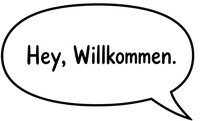
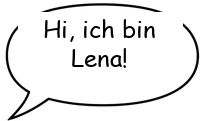
chatbot: Lena-Intro + Bubble rechts-oberhalb + neue Bubble-PNGs
- Bubble-PNGs neu gebaut: Tail nach unten-links gespiegelt (für Position
  rechts-oberhalb von Lena), Text 'Hi, ich bin Lena!' + 'Frag mich zu k-AIzen'
- CSS: left:55% statt right:55%, transform-origin: bottom left (mobile auch)
- Intro-Text im Chat: 'Hallo, ich bin Lena, die KI-Chat-Assistentin'
- Cache-Buster: 20260526-charcoal → 20260527-lena (chatbot.js + Bubble-PNGs)

Hinweis: Lena ist auch Pitch-Charakter (/pitch/lena, Restaurant-Inhaberin).
Pitch-Lena = Kunden-Persona. Chatbot-Lena = AI-Assistentin. Bewusste
Doppelnutzung der Brand-Identity.

diff --git a/public/widgets/chatbot.js b/public/widgets/chatbot.js
@@ -75,19 +75,19 @@
         position: relative;
       }
 
-      /* Sprech-Blasen — links überhalb vom Mönch.
-         Tail unten-rechts der Bubble zeigt nach unten-rechts auf den Mönch. */
+      /* Sprech-Blasen — rechts oberhalb von Lena.
+         Tail unten-links der Bubble zeigt nach unten-links auf Lena's Kopf. */
       .kbot-bubble {
         position: absolute;
         bottom: 100%;      /* bubble komplett oberhalb root */
         margin-bottom: -10px; /* leichter overlap nach unten */
-        right: 55%;        /* tail-Anchor links der Mönch-Mitte → bubble extends nach links */
+        left: 55%;         /* tail-Anchor rechts der Lena-Mitte → bubble extends nach rechts */
         width: 160px;
         height: auto;
         pointer-events: none;
         opacity: 0;
         transform: translateY(8px) scale(0.92);
-        transform-origin: bottom right;
+        transform-origin: bottom left;
         transition:
           opacity 380ms cubic-bezier(0.22, 1, 0.36, 1),
           transform 380ms cubic-bezier(0.22, 1, 0.36, 1);
@@ -323,11 +323,12 @@
           height: min(58vh, 380px);
         }
 
-        /* Bubble kleiner + Position auf mobile */
+        /* Bubble kleiner + Position auf mobile (analog Desktop: rechts-oberhalb) */
         .kbot-bubble {
           width: 130px !important;
           bottom: 92% !important;
-          right: 50% !important;
+          left: 50% !important;
+          right: auto !important;
         }
       }
     `;
@@ -339,8 +340,8 @@
     root.id = 'kaizen-bot-root';
     root.innerHTML = `
       <div class="kbot-handle" id="kbot-handle" role="button" tabindex="0" aria-label="Chat öffnen">
-        <img class="kbot-bubble kbot-bubble-welcome" src="/widgets/bubble-welcome.png" alt="" />
-        <img class="kbot-bubble kbot-bubble-help" src="/widgets/bubble-help.png" alt="" />
+        <img class="kbot-bubble kbot-bubble-welcome" src="/widgets/bubble-welcome.png?v=20260527-lena" alt="" />
+        <img class="kbot-bubble kbot-bubble-help" src="/widgets/bubble-help.png?v=20260527-lena" alt="" />
         <span class="kbot-monk-wrap">
           <img class="kbot-monk-top" src="/widgets/monk-top.png" alt="" />
         </span>
@@ -392,7 +393,7 @@
     sendBtn.onclick = () => send(input.value);
 
     appendAssistant(
-      'Ich bin der k-AIzen-Bot. Frag mich was zu k-AIzen — Pricing, Module, Methodik, Vertrauen — oder lass uns ein Mini-Audit durchgehen.',
+      'Hallo, ich bin Lena, die KI-Chat-Assistentin. Frag mich was zu k-AIzen — Pricing, Module, Methodik, Vertrauen — oder lass uns ein Mini-Audit durchgehen.',
     );
     renderSuggestions([
       'Was ist k-AIzen?',